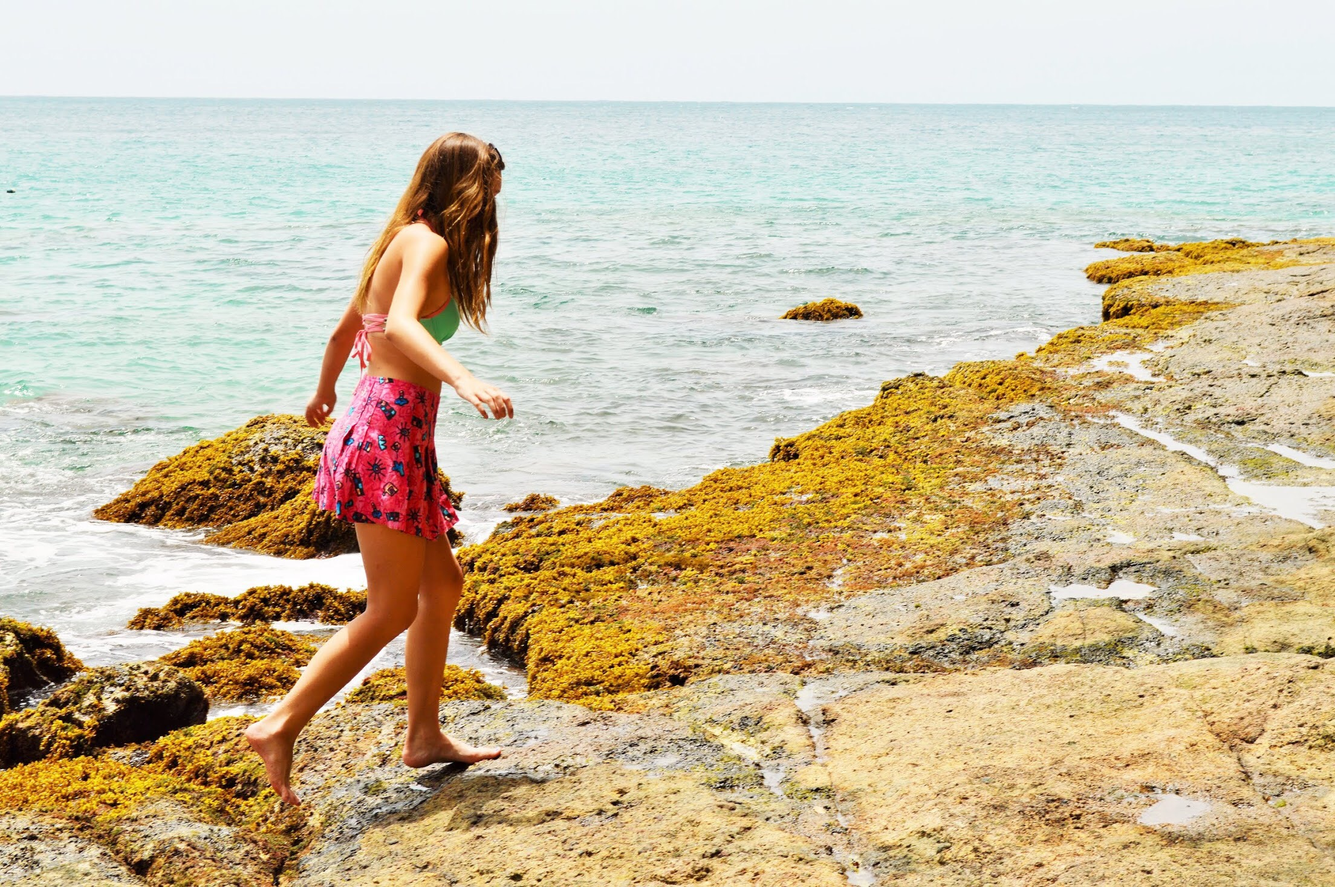
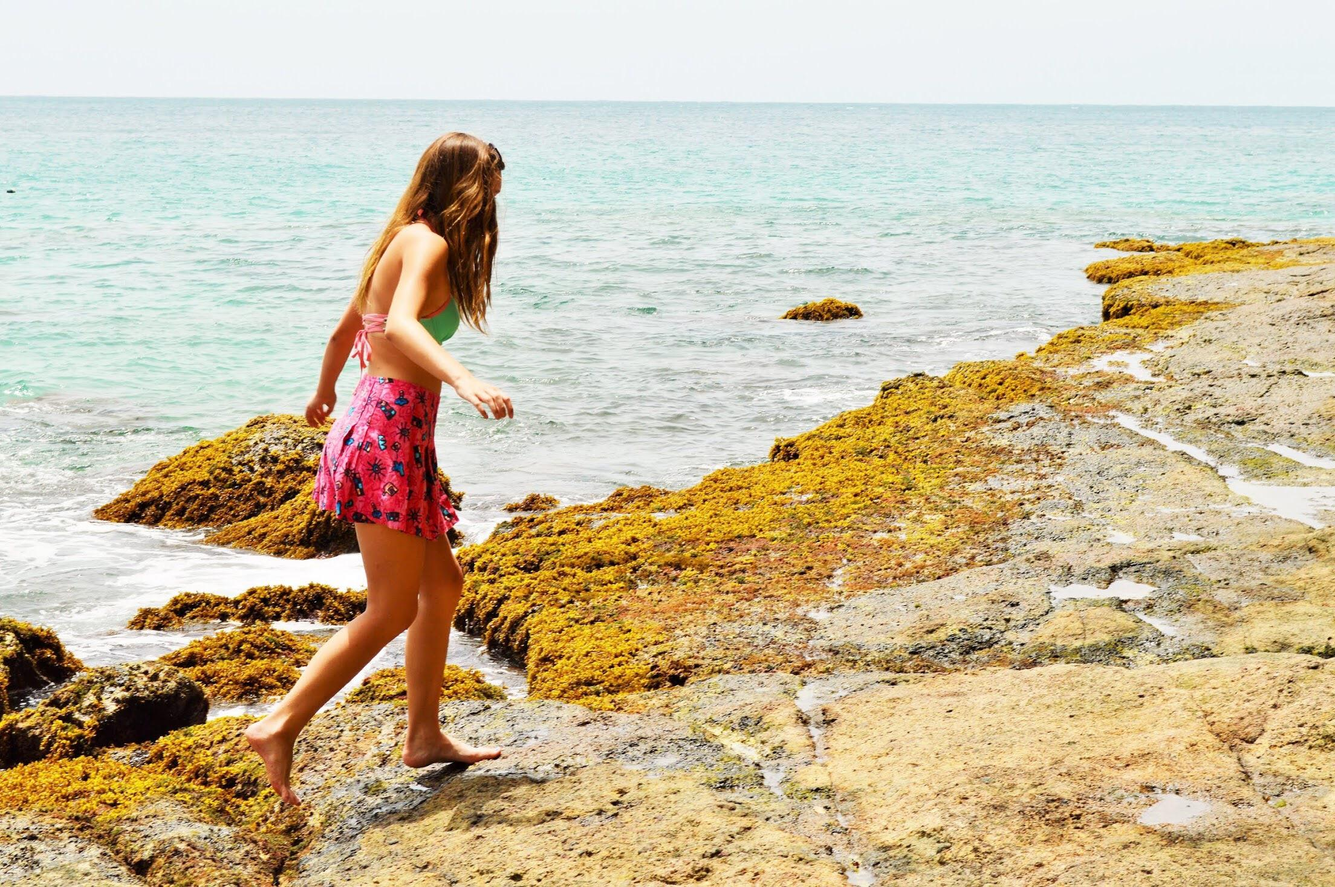
Fixed image limit and weird rotation

diff --git a/blog/models.py b/blog/models.py
@@ -4,6 +4,10 @@ from __future__ import unicode_literals
 from django.db import models
 from django.utils import timezone
 import datetime
+from PIL import Image, ExifTags
+from django.db.models.signals import post_save
+from django.dispatch import receiver
+import os
 
 BLOG_CATEGORIES = (
     ('Travel', 'TRAVEL'),
@@ -37,3 +41,41 @@ class PostImage(models.Model):
     
     def gettitle(self):
         return self.post.title
+
+@receiver(post_save, sender=PostImage, dispatch_uid="update_image_postimage")
+def update_image(sender, instance, **kwargs):
+    if instance.image:
+        BASE_DIR = os.path.dirname(os.path.dirname(os.path.abspath(__file__)))
+        fullpath = BASE_DIR + instance.image.url
+        rotate_image(fullpath)
+
+@receiver(post_save, sender=Post, dispatch_uid="update_image_post")
+def update_image2(sender, instance, **kwargs):
+    if instance.bg_image_skinny:
+        BASE_DIR = os.path.dirname(os.path.dirname(os.path.abspath(__file__)))
+        fullpath = BASE_DIR + instance.bg_image_skinny.url
+        rotate_image(fullpath)
+    if instance.bg_image_wide:
+        BASE_DIR = os.path.dirname(os.path.dirname(os.path.abspath(__file__)))
+        fullpath = BASE_DIR + instance.bg_image_wide.url
+        rotate_image(fullpath)
+
+        
+def rotate_image(filepath):
+    try:
+        image = Image.open(filepath)
+        for orientation in ExifTags.TAGS.keys():
+            if ExifTags.TAGS[orientation] == 'Orientation':
+                break
+        exif = dict(image._getexif().items())
+
+        if exif[orientation] == 3:
+            image = image.rotate(180, expand=True)
+        elif exif[orientation] == 6:
+            image = image.rotate(270, expand=True)
+        elif exif[orientation] == 8:
+            image = image.rotate(90, expand=True)
+        image.save(filepath)
+        image.close()
+    except (AttributeError, KeyError, IndexError):
+        pass

diff --git a/blog/migrations/0003_auto_20190212_2012.py b/blog/migrations/0003_auto_20190212_2012.py
@@ -1,0 +1,19 @@
+# Generated by Django 2.1.2 on 2019-02-13 01:12
+
+import datetime
+from django.db import migrations, models
+
+
+class Migration(migrations.Migration):
+
+    dependencies = [
+        ('blog', '0002_auto_20181211_2129'),
+    ]
+
+    operations = [
+        migrations.AlterField(
+            model_name='post',
+            name='created_date',
+            field=models.DateTimeField(default=datetime.datetime(2019, 2, 12, 20, 12, 32, 667953)),
+        ),
+    ]

diff --git a/blog/migrations/0004_auto_20190212_2015.py b/blog/migrations/0004_auto_20190212_2015.py
@@ -1,0 +1,19 @@
+# Generated by Django 2.1.2 on 2019-02-13 01:15
+
+import datetime
+from django.db import migrations, models
+
+
+class Migration(migrations.Migration):
+
+    dependencies = [
+        ('blog', '0003_auto_20190212_2012'),
+    ]
+
+    operations = [
+        migrations.AlterField(
+            model_name='post',
+            name='created_date',
+            field=models.DateTimeField(default=datetime.datetime(2019, 2, 12, 20, 15, 28, 597449)),
+        ),
+    ]

diff --git a/belle/settings.py b/belle/settings.py
@@ -39,7 +39,7 @@ INSTALLED_APPS = [
     'blog',
 ]
 
-MIDDLEWARE_CLASSES = [
+MIDDLEWARE = [
     'django.middleware.security.SecurityMiddleware',
     'django.contrib.sessions.middleware.SessionMiddleware',
     'django.middleware.common.CommonMiddleware',

diff --git a/blog/admin.py b/blog/admin.py
@@ -11,7 +11,7 @@ class PostImageAdmin(admin.ModelAdmin):
 
 class PostImageInline(admin.StackedInline):
     model = PostImage
-    max_num = 10
+    max_num = 40
     extra = 0
     
 class PostAdmin(admin.ModelAdmin):
